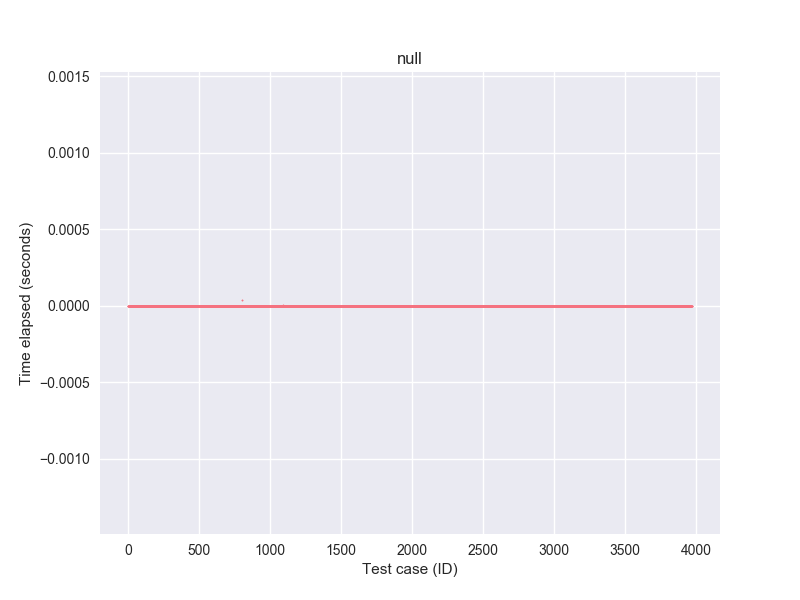
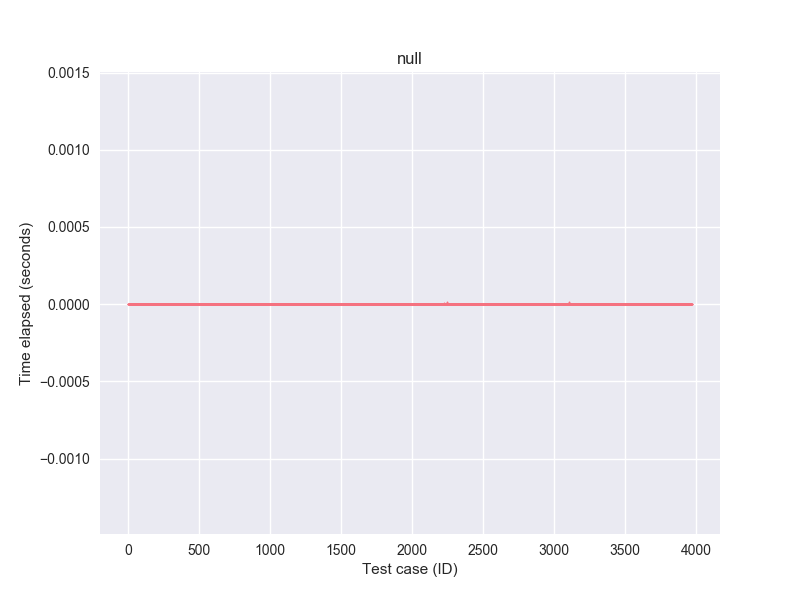
SVD and Bayes

diff --git a/assignment1/assignment1.py b/assignment1/assignment1.py
@@ -30,17 +30,26 @@ def SGD(ratings, user, item):
 
 
 ###############################
-# MATRIX DECOMPOSITION (SVD)  #
+#             SVD             #
 ###############################
-def SVD(ratings, user, item):
-    u, s, v = np.linalg.svd(ratings)
-    # prediction with absolute ratings
-    # prediction with relative ratings
+def SVD_prediction(P, S, Q, user, movie, k):
+    prediction = 0
+    for i in range(k):
+        prediction += P[user][i] * S[i] * Q[i][item - 1]
+    return prediction
+
+def SVD(ratings, user, item, k):
+    # matrix decomposition
+    P, S, Q = np.linalg.svd(ratings)
+    P = P[, :k]
+    S = S[, :k]
+    Q = Q[, :k]
 
 
-###################
-# BASELINE METHOD #
-###################
+
+##############################
+#        BASELINE METHOD     #
+##############################
 def global_average(ratings):
     size = 0
     total = 0
@@ -94,21 +103,57 @@ def baseline(ratings, user, item, global_avg):
 #########################
 # PROBABILISTIC (BAYES) #
 #########################
-def probability(ratings, item, rating):
-    pass
-
-
 def bayes_method(ratings, user, item):
-    probabilities = [0, 0, 0, 0, 0]
+    # all ratings for given user
+    user_ratings = ratings[user]
+    # all ratings for given item
+    item_ratings = ratings[:, item]
 
-    for i in range(1, 6):
-        # P(Y)
-        # P(item i = 1)
-        # P(item i = 2)
-        # P(item i = 3)
-        # P(item i = 4)
-        # P(item i = 5)
-        pass
+    # final probability
+    probability = [0, 0, 0, 0, 0]
+
+    # hypothesis:
+    # probability for rating (1-5)
+    probability_of_rating = [0, 0, 0, 0, 0]
+
+    # ratings frequency for given item
+    ratings_frequencies_item = [0, 0, 0, 0, 0]
+
+    # calculate frequency for ratings (for given item)
+    for rating in item_ratings:
+        # rating is in range (1-5), represented by indexes (0-4)
+        ratings_frequencies_item[rating - 1] += 1
+
+    # calculate probability of each rating for given item
+    for i in range(5):
+        probability_of_rating[i] = ratings_frequencies_item[i] / sum(ratings_frequencies_item)
+
+    # for every movie that user has rated
+    # calculate the probability of each rating
+    conditional_probabilities = np.zeros((len(user_ratings), 5))
+    for movie, rating in enumerate(user_ratings):
+        item_ratings = ratings[:, movie]
+        for i in range(5):
+            total_frequency = 0
+            # frequency that rating shows for this movie
+            for rating in item_ratings:
+                if (rating == (i+1)):
+                    total_frequency += 1
+            # conditional probability = frequency of rating for
+            # desired item i / frequency of rating for item j
+            if (total_frequency > 0):
+                conditional_probabilities[movie][i] = ratings_frequencies_item[i] / total_frequency
+            else:
+                conditional_probabilities[movie][i] = 0
+
+    # probability of rating i = probability of rating i
+    # for desired item * product of conditional probabilities for rating i
+    for i in range(5):
+        productory = np.prod(conditional_probabilities[:, i])
+        probability[i] = probability_of_rating[i] * productory
+
+    prediction = np.argmax(probability) +  1
+    return prediction
 
 
 ###########
@@ -131,7 +176,8 @@ def RF_Rec(ratings, user, item):
         for rating in item_ratings:
             if (rating == i):
                 frequencies_item[i-1] += 1
-        # multiply rating frequency for user and item
+        # rating frequency = frequency that user gave
+        # that rating * frequency that item was given that rating
         rui[i-1] = frequencies_user[i-1] * frequencies_item[i-1]
     # pred = arg max freq(user) x freq(item)
     prediction = rui.index(max(rui)) + 1
@@ -281,7 +327,7 @@ def main():
     print("\t 4 - Bayes")
     print("\t 5 - SVD")
     print("\t 6 - SGD")
-    print("\t 7 - Code profiling only")
+    print("\t 7 - Skip to performance report")
     print("::: ", end='')
     method = int(input())
 
@@ -331,7 +377,7 @@ def main():
     # run tests and write to results csv
     counter = 0
     times = []
-    print("Calculatig predictions...")
+    print("Calculating predictions...")
     with progressbar.ProgressBar(max_value=3970) as bar:
         for row in test_data.itertuples():
             id = getattr(row, "id")
@@ -352,7 +398,7 @@ def main():
                 prediction = bayes_method(ratings, user-1, movie-1)
                 error_check(prediction, id)
             elif (method == 5):
-                prediction = SVD(ratings, user-1, movie-1)
+                prediction = SVD(ratings, user-1, movie-1, 5)
                 error_check(prediction, id)
             elif (method == 6):
                 prediction = SGD(ratings, user-1, movie-1)
@@ -438,26 +484,26 @@ def main():
             times["rfrec"].append(time_elapsed)
             rmses["rfrec"].append(rmse(rating, prediction))
 
-            # start = timer()
-            # prediction = bayes_method(ratings, user-1, movie-1)
-            # end = timer()
-            # time_elapsed = end - start
-            # times["bayes"].append(time_elapsed)
-            # rmse["bayes"].append(rmse(rating, prediction))
+            start = timer()
+            prediction = bayes_method(ratings, user-1, movie-1)
+            end = timer()
+            time_elapsed = end - start
+            times["bayes"].append(time_elapsed)
+            rmses["bayes"].append(rmse(rating, prediction))
 
             # start = timer()
             # prediction = SVD(ratings, user-1, movie-1)
             # end = timer()
             # time_elapsed = end - start
             # times["svd"].append(time_elapsed)
-            # rmse["svd"].append(rmse(rating, prediction))
+            # rmses["svd"].append(rmse(rating, prediction))
 
             # start = timer()
             # prediction = SGD(ratings, user-1, movie-1)
             # end = timer()
             # time_elapsed = end - start
             # times["sgd"].append(time_elapsed)
-            # rmse["sgd"].append(rmse(rating, prediction))
+            # rmses["sgd"].append(rmse(rating, prediction))
 
             counter += 1
             bar.update(counter)
@@ -469,9 +515,9 @@ def main():
     plt.scatter(range(len(times["itemcf"])), times["itemcf"], s=4, c="#f1c40f", label="item-item CF")
     plt.scatter(range(len(times["baseline"])), times["baseline"], s=4, c="#c0392b", label="Baseline")
     plt.scatter(range(len(times["rfrec"])), times["rfrec"], s=4, c="#2c3e50", label="RF-Rec")
-    # plt.scatter(range(len(times["bayes"])), times["bayes"], s=4, c="#2980b9")
-    # plt.scatter(range(len(times["svd"])), times["svd"], s=4, c="#27ae60")
-    # plt.scatter(range(len(times["sgd"])), times["sgd"], s=4, c="#bdc3c7")
+    plt.scatter(range(len(times["bayes"])), times["bayes"], s=4, c="#2980b9", label="Bayes")
+    # plt.scatter(range(len(times["svd"])), times["svd"], s=4, c="#27ae60", label="SVD")
+    # plt.scatter(range(len(times["sgd"])), times["sgd"], s=4, c="#bdc3c7", label="SGD")
 
     plt.legend()
     plt.xlabel("Test case (ID)")
@@ -492,9 +538,9 @@ def main():
     plt.scatter(range(len(rmses["itemcf"])), rmses["itemcf"], s=4, c="#f1c40f", label="item-item CF")
     plt.scatter(range(len(rmses["baseline"])), rmses["baseline"], s=4, c="#c0392b", label="Baseline")
     plt.scatter(range(len(rmses["rfrec"])), rmses["rfrec"], s=4, c="#2c3e50", label="RF-Rec")
-    # plt.scatter(range(len(rmses["bayes"])), rmses["bayes"], s=4, c="#2980b9")
-    # plt.scatter(range(len(rmses["svd"])), rmses["svd"], s=4, c="#27ae60")
-    # plt.scatter(range(len(rmses["sgd"])), rmses["sgd"], s=4, c="#bdc3c7")
+    plt.scatter(range(len(rmses["bayes"])), rmses["bayes"], s=4, c="#2980b9", label="Bayes")
+    # plt.scatter(range(len(rmses["svd"])), rmses["svd"], s=4, c="#27ae60", label="SVD")
+    # plt.scatter(range(len(rmses["sgd"])), rmses["sgd"], s=4, c="#bdc3c7", label="SGD")
 
     plt.legend()
     plt.xlabel("Test case (ID)")
